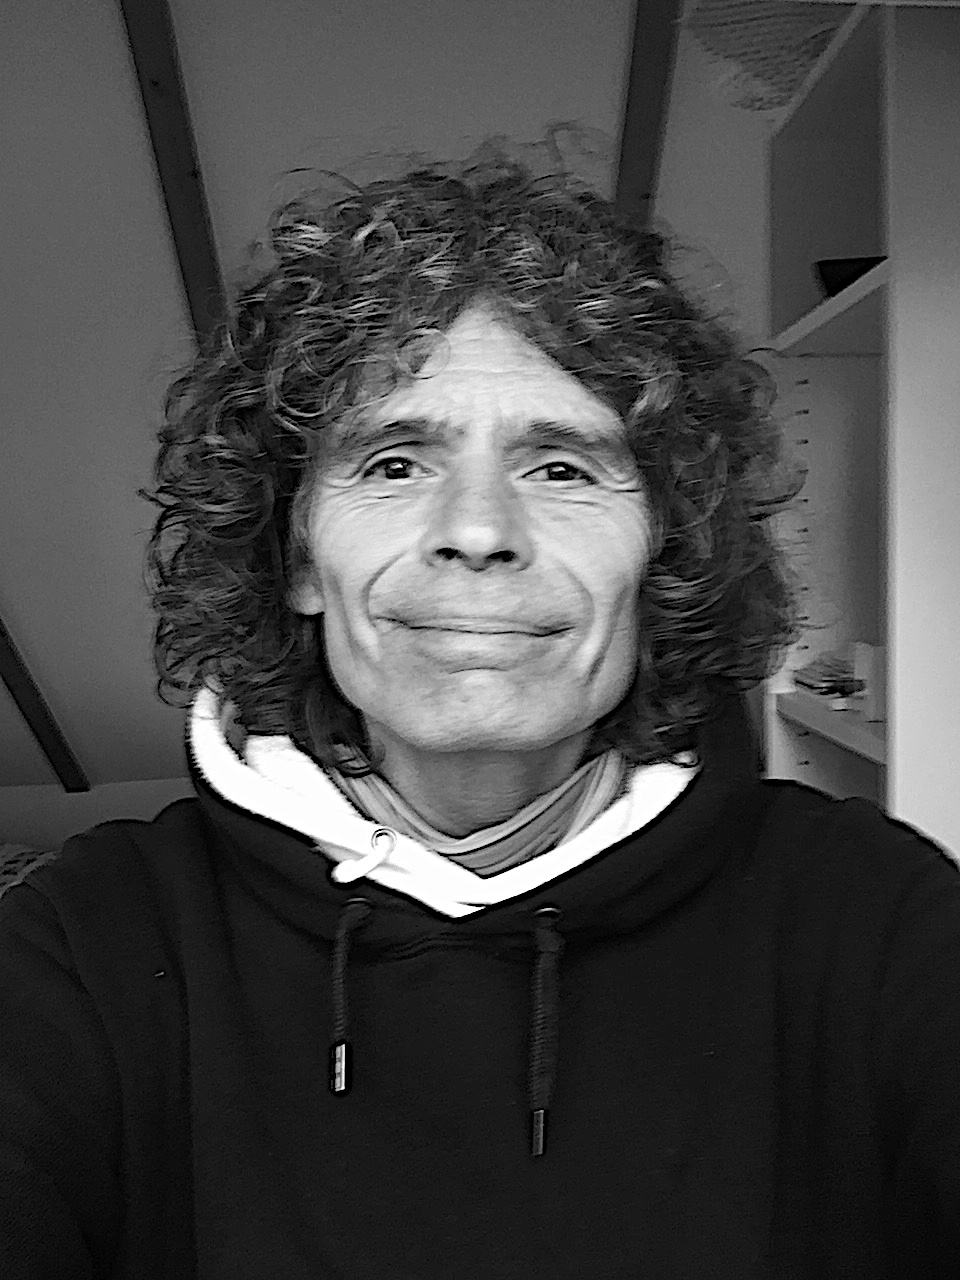
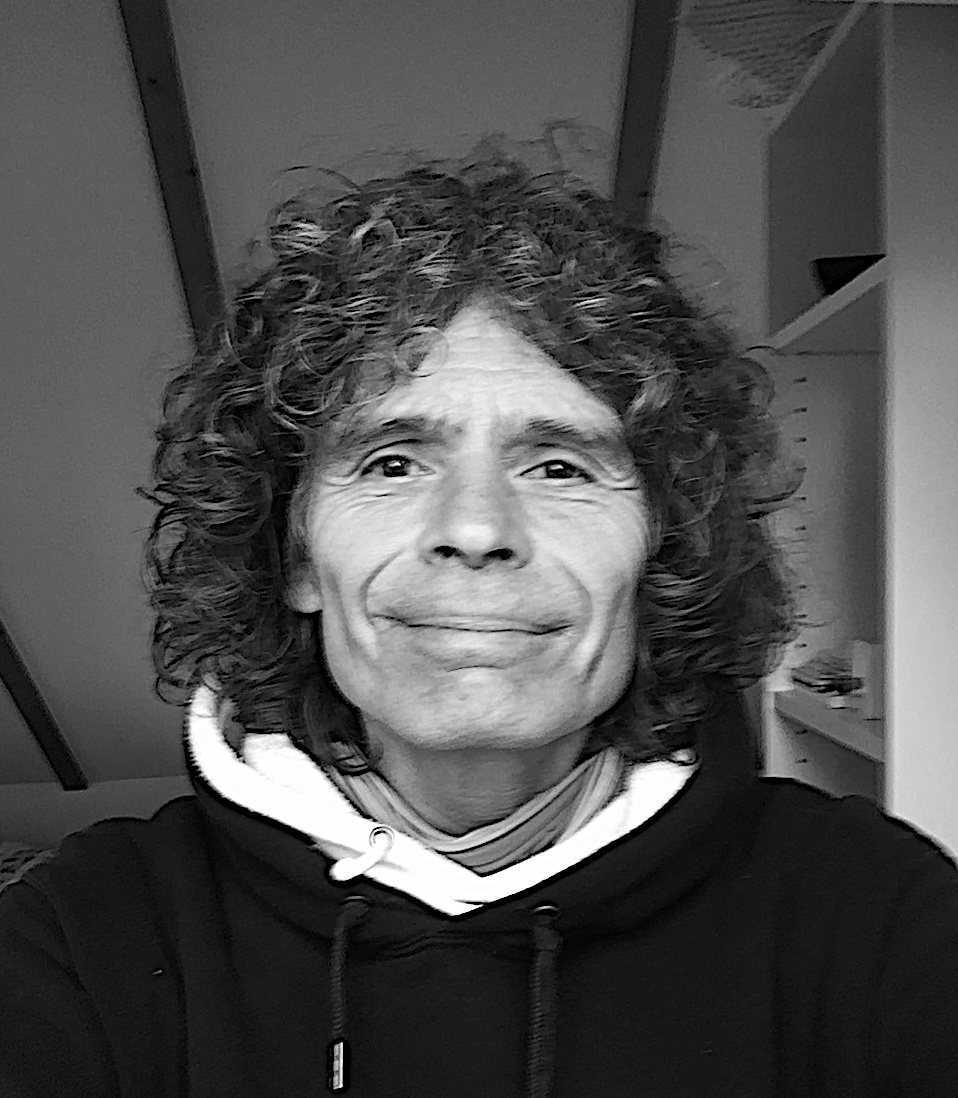
je-ibsoftsys: (1) changed text 'Solutions ..' and 'Loesungen...' (2) me-sharpened resized

diff --git a/ai-card-player/je-ibsoftsys/en/index.html b/ai-card-player/je-ibsoftsys/en/index.html
@@ -66,7 +66,7 @@
 <!-- Container (About Section) -->
 <div class="w3-content w3-container w3-padding-64" id="about">
   <h2 class="w3-center"><span class="small-caps">Engineering Office for Software Systems</span></h2>
-  <p class="w3-center"><em>"Building solutions using analytical</em> and <em>creative thinking."</em></p>
+  <p class="w3-center"><em>"Building solutions using analytical <span class="w3-text-black"> and</span> creative thinking"</em></p>
   <div class="w3-row">
     <!-- 21Aug2021 10:42<div class="w3-col m4 w3-center w3-padding-12"> -->
 

diff --git a/ai-card-player/je-ibsoftsys/index.html b/ai-card-player/je-ibsoftsys/index.html
@@ -66,7 +66,7 @@
 <!-- Container (About Section) -->
 <div class="w3-content w3-container w3-padding-64" id="about">
   <h2 class="w3-center"><span class="small-caps">Ingenieurbüro für Softwaresysteme</span></h2>
-  <p class="w3-center"><em>"Mit analytischem </em> und <em>kreativem Denken Lösungen entwickeln."</em></p>
+  <p class="w3-center"><em>"Lösungen mit analytischem <span class="w3-text-black"> und</span> kreativem Denken entwickeln"</em></p>
   <div class="w3-row">
     <!-- 21Aug2021 10:42<div class="w3-col m4 w3-center w3-padding-12"> -->
 
